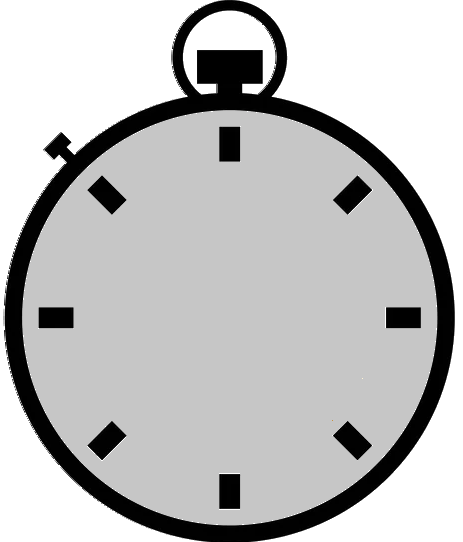
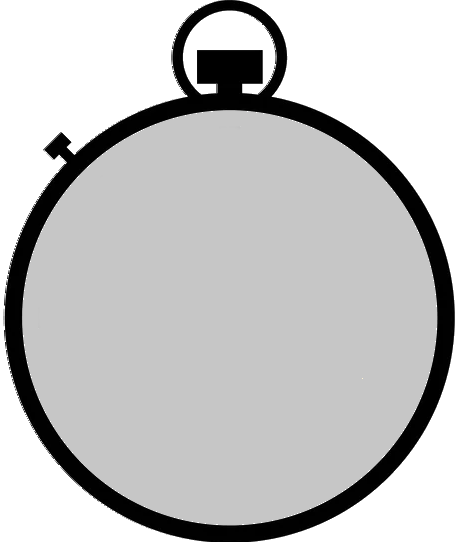
ajout fond chrono

diff --git a/Projet Phaser/src/scenes/Level.js b/Projet Phaser/src/scenes/Level.js
@@ -121,7 +121,6 @@ class Level extends Phaser.Scene {
 
     var door_boss = new Door(this, 750, 673, "simpleporte", false);
 
-
     //Indice
 
     ///////////// ROOM 1 (TODO: faire un json avec les textes) /////////////
@@ -202,6 +201,7 @@ class Level extends Phaser.Scene {
       calque3,
       prof1,
       prof2,
+      prof3,
       door_room2_1,
       door_room2_2,
       door_room3_1,
@@ -233,23 +233,35 @@ class Level extends Phaser.Scene {
 
     ///////////// CHRONOMETER /////////////
     /// txt chrono
-    const chrono_txt = this.add.text(125, 70, "", {}).setDepth(5);
+
+    const back_chrono = this.add.image(125, 100, "back_chrono").setDepth(4);
+    /*Phaser.Display.Align.In.TopLeft(
+      back_chrono,
+      this.add.zone(400, 300, 800, 600)
+    );*/
+    back_chrono.setOrigin(0.5, 0.48);
+    back_chrono.setScrollFactor(0);
+    back_chrono.setScale(0.17);
+
+    const chrono_txt = this.add.text(0, 0, "", {}).setDepth(5);
     chrono_txt.setOrigin(0.5, 0.5);
     chrono_txt.setStyle({
       fontFamily: "roboto",
-      fontSize: "25px",
+      fontSize: "20px",
       color: "black",
-      backgroundColor: "white",
     });
     chrono_txt.setScrollFactor(0);
+    Phaser.Display.Align.In.Center(chrono_txt, back_chrono);
     this.chrono_txt = chrono_txt;
 
     /// txt malus chrono
-    const time_malus_txt = this.add.text(chrono_txt.x, chrono_txt.y + 40, "+30", {}).setDepth(5);
+    const time_malus_txt = this.add
+      .text(chrono_txt.x, chrono_txt.y + 25, "+30", {})
+      .setDepth(5);
     time_malus_txt.setOrigin(0.5, 0.5);
     time_malus_txt.setStyle({
       fontFamily: "roboto",
-      fontSize: "25px",
+      fontSize: "15px",
       color: "red",
     });
     time_malus_txt.setScrollFactor(0);
@@ -262,7 +274,7 @@ class Level extends Phaser.Scene {
     /// Every second, the chrono increment of 1
     const chrono = this.time.addEvent({
       delay: 1000,
-      callback: () => this.chrono+=1,
+      callback: () => (this.chrono += 1),
       callbackScope: this,
       loop: true,
     });
@@ -283,12 +295,11 @@ class Level extends Phaser.Scene {
     const timedEvent = this.time.delayedCall(
       3000,
       () => {
-        this.time_malus_txt.visible = false,
-        this.chrono+=30;
+        (this.time_malus_txt.visible = false), (this.chrono += 30);
       },
       [],
       this
-    );    
+    );
   }
 
   ///////////// UPDATE /////////////
@@ -316,7 +327,6 @@ class Level extends Phaser.Scene {
   }
 
   update() {
-
     ///LIST TO UPDATE DIALOG OBJECTS (BOSS, CLUES)
     for (var i = 0; i < this.update_list.length; i++) {
       this.update_list[i].update();

diff --git a/Projet Phaser/src/scenes/Presentation.js b/Projet Phaser/src/scenes/Presentation.js
@@ -1,0 +1,37 @@
+// You can write more code here
+
+/* START OF COMPILED CODE */
+
+class Presentation extends Phaser.Scene {
+    constructor() {
+      super("Presentation");
+  
+      /* START-USER-CTR-CODE */
+      // Write your code here.
+      /* END-USER-CTR-CODE */
+    }
+  
+    /** @returns {void} */
+    editorPreload() {}
+  
+    /** @returns {void} */
+    editorCreate() {
+        
+      this.events.emit("scene-awake");
+    }
+  
+    /* START-USER-CODE */
+  
+    // Write your code here
+  
+    create() {
+      this.editorCreate();
+    }
+  
+    /* END-USER-CODE */
+  }
+  
+  /* END OF COMPILED CODE */
+  
+  // You can write more code here
+  
